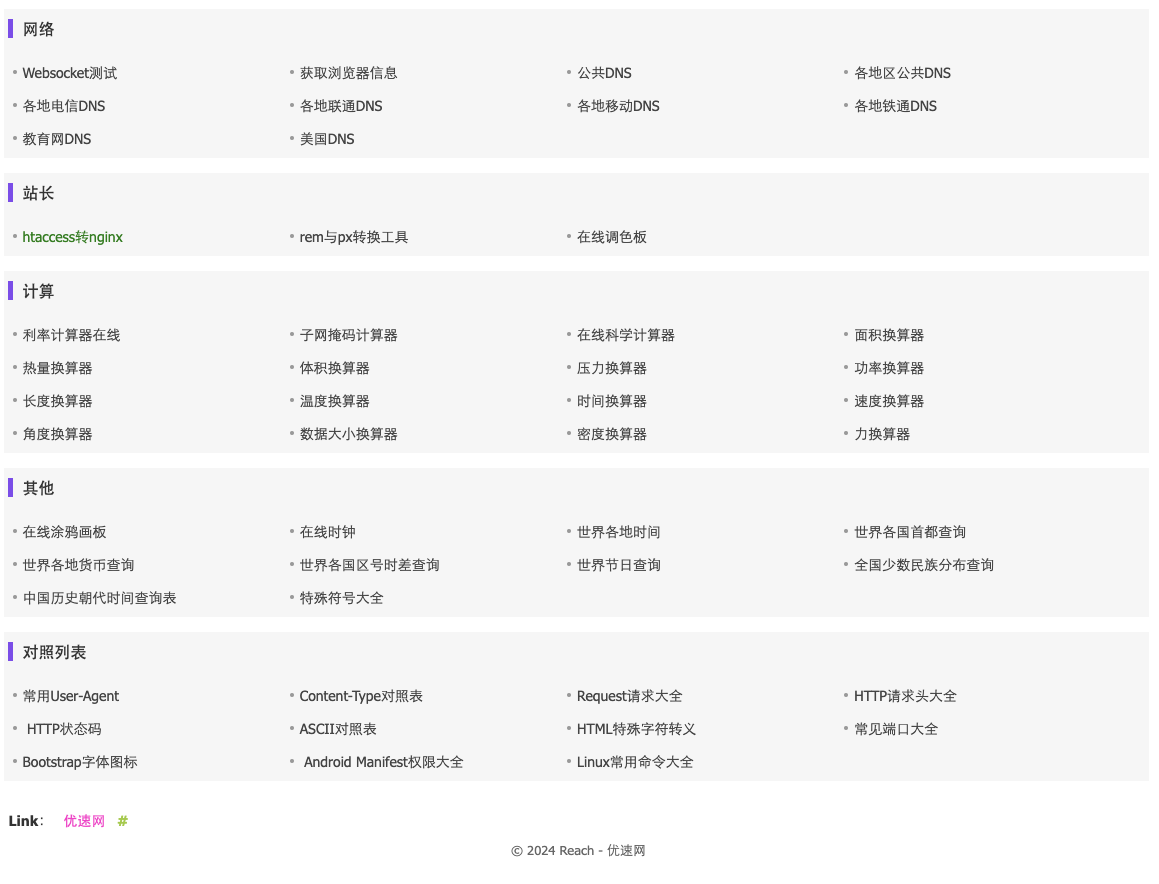
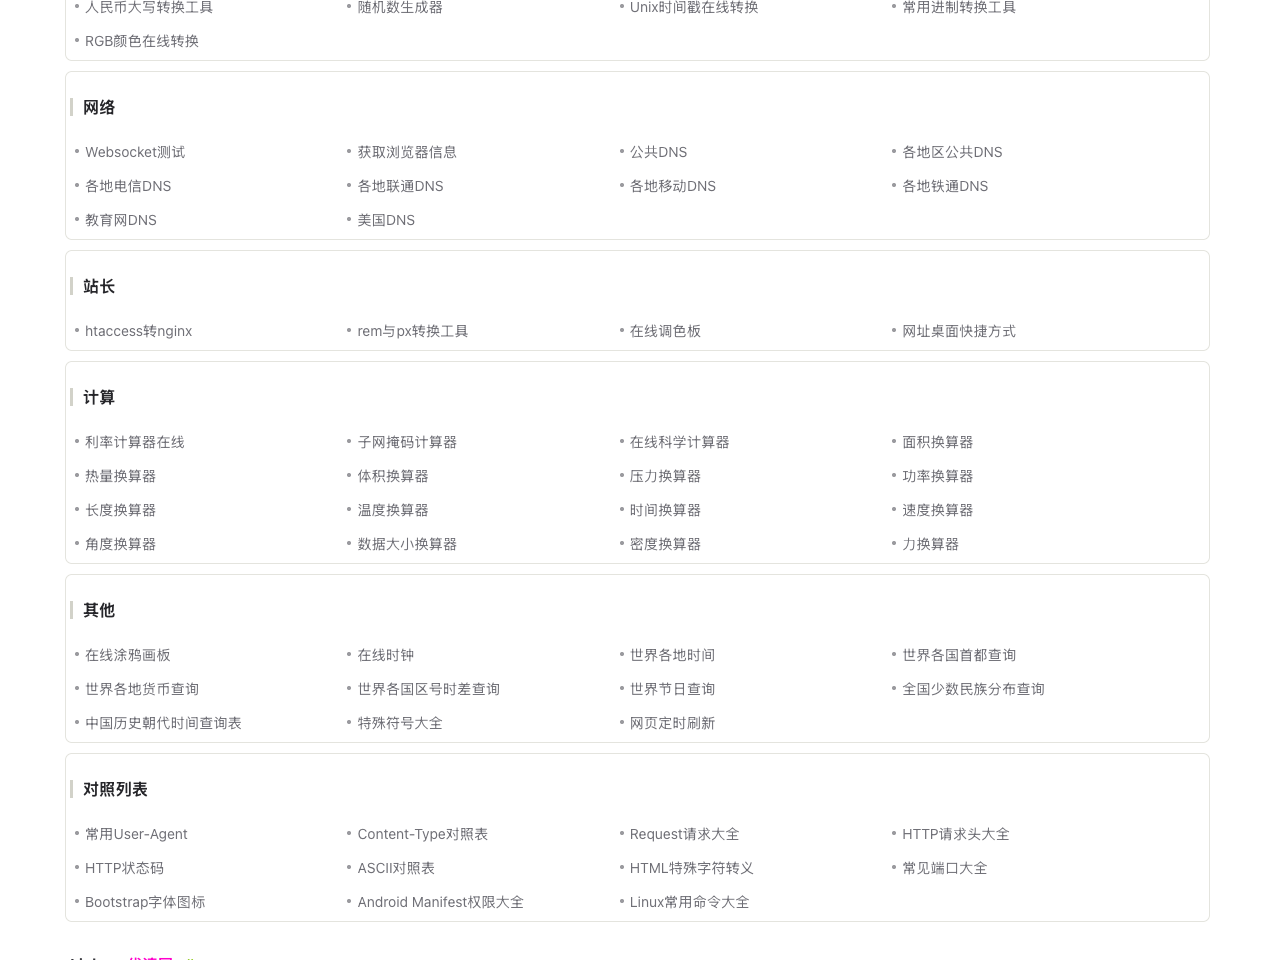
home: remove hero title, refresh screenshots, tidy README
- Drop the <h1> hero title from the homepage; keep the lead description.
- Recapture sc1/sc2 at 1280px so the fixed navbar stays single-row and nothing is clipped.
- Rewrite README with a concise description, build steps, and credits.

diff --git a/cmd/web/vcp/index.html b/cmd/web/vcp/index.html
@@ -9,7 +9,7 @@
 {{ template "header.html" . }}
 <div class="container">
     <div class="row">
-        <header class="col-md-12 tool-head"><h1>优速网 · 开发者在线工具集</h1><p class="lead">JSON、编码加解密、格式化、正则、单位换算、对照速查等 150+ 款常用在线工具，全部在浏览器本地运行，免登录、不上传。</p></header>
+        <header class="col-md-12 tool-head"><p class="lead">JSON、编码加解密、格式化、正则、单位换算、对照速查等 150+ 款常用在线工具，全部在浏览器本地运行，免登录、不上传。</p></header>
         <p class="col-md-12 top-tip">本站所有工具均可离线运行</p>
         <div class="col-md-12 footer-nav">
             <ul class="list-inline list-inline-bg" id="usolink-history" style="display:none"></ul>

diff --git a/README.md b/README.md
@@ -1,14 +1,27 @@
-```azure
-HTML代码来源： https://hostloc.com/forum.php?mod=viewthread&tid=1351049
-```
+# 优速网
+
+150+ 款常用在线工具的合集：JSON、编码加解密、格式化、正则、单位换算、对照速查等。全部在浏览器本地运行，免登录、不上传。
+
+线上站点：<https://uso.link>
+
+## 本地运行
+
+需要 Go 1.22+。
+
 ```bash
-clone
-
-cd cmd/web
-
+git clone https://github.com/sysctl-date/uso.link.git
+cd uso.link/cmd/web
 go build .
-
 ./web
 ```
-![](sc1.png)
-![](sc2.png)
+
+服务监听 `0.0.0.0:12345`，生产环境可在前面挂 nginx 反代到 80/443。
+
+## 截图
+
+![首页](sc1.png)
+![工具分类](sc2.png)
+
+## 致谢
+
+页面 HTML 结构参考自 <https://hostloc.com/forum.php?mod=viewthread&tid=1351049>